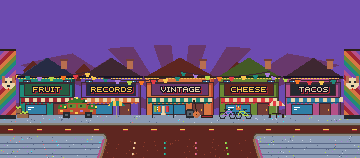
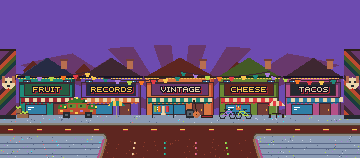
Darken Kensington Market's laneway murals a ramp step, so the walls at the backdrop's edges sit behind the shopfronts

Changed region(s): [[0.9472, 0.3038, 1.0, 0.7342], [0.0, 0.3038, 0.0611, 0.7342]]

diff --git a/art/tools/backdrops.py b/art/tools/backdrops.py
@@ -1319,12 +1319,13 @@ def market_house(cv, cx, w, wall, roof, awn, sign, board, letters, base=BASE, tr
 
 
 def mural(cv, x0, top, base, flip):
-    """A laneway wall 16 wide, rows top to base, painted with a mural: diagonal bands of bright paint
-    under a walnut coping, a dog's face looking out of them, the paint stopping short of the ground."""
+    """A laneway wall 16 wide, rows top to base, painted with a mural: diagonal bands of MURAL's paint a ramp
+    step darker, so the walls at the band's edges sit behind the shopfronts, under a walnut coping, a dog's
+    face looking out of them, the paint stopping short of the ground."""
     for py in range(top, base):
         for px in range(x0, x0 + 16):
             u = (px - x0) if not flip else (x0 + 15 - px)
-            c = MURAL[((u + py) // 5) % len(MURAL)] if py < base - 4 else "coal"
+            c = dk(MURAL[((u + py) // 5) % len(MURAL)]) if py < base - 4 else "coal"
             cv.fill(px, py, 1, 1, c)
     cv.fill(x0, top, 16, 2, "walnut")
     fy = top + 34

diff --git a/art/style-guide.md b/art/style-guide.md
@@ -324,6 +324,7 @@ Backdrops are 360×158 on screen rows 48 to 205 (`art/tools/backdrops.py`); band
 - Above the far side's front row the scenery goes back in depth, not taller. The debuff bars and the message strip lie over the band's top rows, so the sky above row 45 is one flat colour with no clouds, stars or scenery. Yonge Street is the exception: its skyline rises above row 45, under the bars' and the strip's opaque plates.
 - Darkness varies: The Beaches bright and open, the Distillery District at golden hour, High Park under a clear blue sky, Cabbagetown at dusk, Yonge Street an evening downtown and Kensington Market darkest, a Pedestrian Sunday at twilight.
 - Houses on the far side are slim, about as tall as they are wide, under a gable that rises about a row for each column it narrows, past 2px eaves. Light comes from the top left: the roof's left edge a ramp step lighter, the wall's right 3 columns a step darker. Trees, hedges and side yards fill the gaps, and the end houses run off the band's edges so the street carries on. Houses further back are smaller and show between the near roofs.
+- Kensington Market's laneway murals at the band's edges are painted a ramp step darker than `MURAL`, so they sit behind the shopfronts.
 - The approach rows carry no static scenery. The near corners and the stub's verges show only their ground (lawn, paving, sidewalk and curb, as the verge paints them): the game's road begins there and its items spawn over them, so no perch, ornament, tree, lamp, bench, sign or other prop stands there. Everything static stands at or beyond the cross street, and no static vehicle stands on it: the ambient traffic drives there, so a jam (Yonge Street's side street) stays beyond the far sidewalk.
 
 ## Skies
